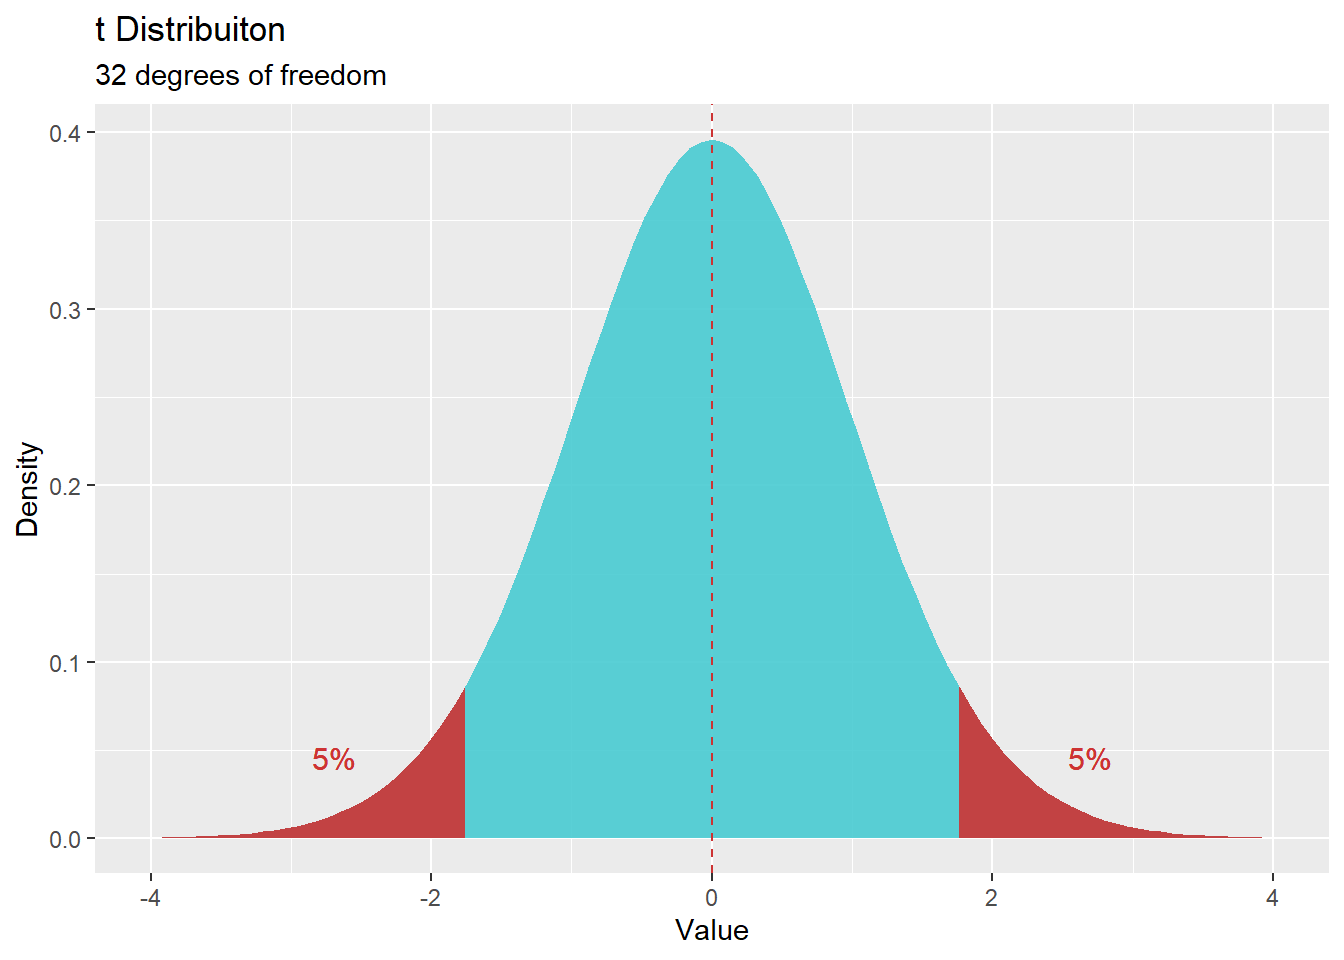
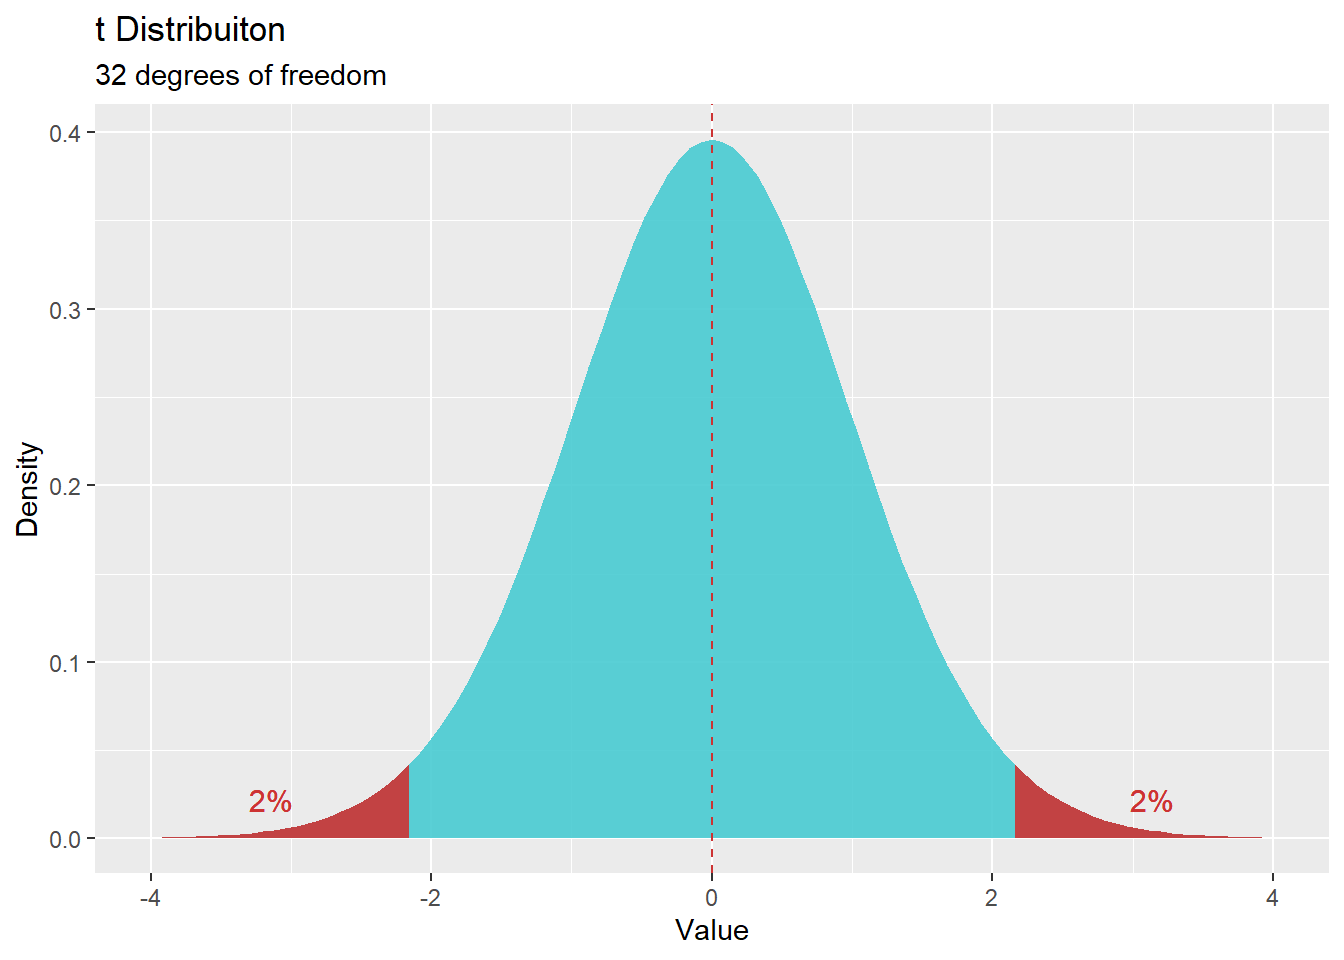
z test and t 3

diff --git a/הסקה-סטטיסטית.html b/הסקה-סטטיסטית.html
@@ -295,18 +295,16 @@ code span.wa { color: #60a0b0; font-weight: bold; font-style: italic; } /* Warni
 <pre><code>qnorm(*confidence level*)</code></pre>
 <p>לדוגמא: עבור השערה חד זנבית ימנית עם <span class="math inline">\(\alpha = 0.05\)</span>
 נרצה לקבל את ציון התקן אשר ההסתברות המצטברת <em>עד אליו</em> היא <span class="math inline">\(0.95\)</span>. <br>
-זהו ציון ה<span class="math inline">\(Z\)</span> הקריטי</p>
-<div class="sourceCode" id="cb172"><pre class="sourceCode r"><code class="sourceCode r"><span id="cb172-1"><a href="הסקה-סטטיסטית.html#cb172-1" aria-hidden="true" tabindex="-1"></a><span class="fu">qnorm</span>(<span class="fl">0.95</span>)</span></code></pre></div>
+זהו ציון ה<span class="math inline">\(Z\)</span> הקריטי.</p>
+<div class="sourceCode" id="cb2"><pre class="sourceCode r"><code class="sourceCode r"><span id="cb2-1"><a href="הסקה-סטטיסטית.html#cb2-1" aria-hidden="true" tabindex="-1"></a><span class="fu">qnorm</span>(<span class="fl">0.95</span>)</span></code></pre></div>
 <pre><code>## [1] 1.644854</code></pre>
-<p><img src="R-Tutorials_files/figure-html/unnamed-chunk-80-1.png" width="672" style="display: block; margin: auto auto auto 0;" /></p>
-<pre><code>## [1] 1.644854</code></pre>
+<p><img src="R-Tutorials_files/figure-html/unnamed-chunk-2-1.png" width="672" style="display: block; margin: auto auto auto 0;" /></p>
 <p>עבור מבחן דו זנבי ואותה רמת ביטחון - ערכים קיצוניים ייתכנו משני הצדדים (<span class="math inline">\(0.025\)</span> מכל צד)
 ולכן ציון ה<span class="math inline">\(Z\)</span>
 הקריטי יחושב עבור הסתברות מצטברת של <span class="math inline">\(0.975\)</span>.</p>
-<div class="sourceCode" id="cb175"><pre class="sourceCode r"><code class="sourceCode r"><span id="cb175-1"><a href="הסקה-סטטיסטית.html#cb175-1" aria-hidden="true" tabindex="-1"></a><span class="fu">qnorm</span>(<span class="fl">0.975</span>)</span></code></pre></div>
+<div class="sourceCode" id="cb4"><pre class="sourceCode r"><code class="sourceCode r"><span id="cb4-1"><a href="הסקה-סטטיסטית.html#cb4-1" aria-hidden="true" tabindex="-1"></a><span class="fu">qnorm</span>(<span class="fl">0.975</span>)</span></code></pre></div>
 <pre><code>## [1] 1.959964</code></pre>
-<p><img src="R-Tutorials_files/figure-html/unnamed-chunk-82-1.png" width="672" style="display: block; margin: auto auto auto 0;" /></p>
-<pre><code>## [1] 1.959964</code></pre>
+<p><img src="R-Tutorials_files/figure-html/unnamed-chunk-4-1.png" width="672" style="display: block; margin: auto auto auto 0;" /></p>
 <h3>
 חישוב <span class="math inline">\(t\)</span> קריטי
 </h3>
@@ -317,17 +315,19 @@ code span.wa { color: #60a0b0; font-weight: bold; font-style: italic; } /* Warni
 בניסוח פרקטי: דרגות החופש שוות למספר הנבדקים פחות מספר הפרמטרים עליהם מבוסס חישוב הסטטיסטי.</p>
 <pre><code>qt(*confidence level*, *degrees of freedom*)</code></pre>
 <p>לדוגמא:
-עבור השערה חד זנבית ימנית עם <span class="math inline">\(\alpha = 0.1\)</span>
-ו- <span class="math inline">\(df = 32\)</span></p>
-<div class="sourceCode" id="cb179"><pre class="sourceCode r"><code class="sourceCode r"><span id="cb179-1"><a href="הסקה-סטטיסטית.html#cb179-1" aria-hidden="true" tabindex="-1"></a><span class="fu">qt</span>(<span class="fl">0.9</span>, <span class="dv">32</span>)</span></code></pre></div>
-<pre><code>## [1] 1.308573</code></pre>
-<p><img src="R-Tutorials_files/figure-html/unnamed-chunk-84-1.png" width="672" style="display: block; margin: auto auto auto 0;" /></p>
+עבור השערה חד זנבית שמאלית עם <span class="math inline">\(\alpha = 0.04\)</span>
+ו- <span class="math inline">\(df = 32\)</span>
+נרצה לקבל את ציון התקן אשר ההסתברות המצטברת <em>עד אליו</em> היא <span class="math inline">\(0.04\)</span>. <br>
+זהו ציון ה<span class="math inline">\(t\)</span> הקריטי.</p>
+<div class="sourceCode" id="cb7"><pre class="sourceCode r"><code class="sourceCode r"><span id="cb7-1"><a href="הסקה-סטטיסטית.html#cb7-1" aria-hidden="true" tabindex="-1"></a><span class="fu">qt</span>(<span class="fl">0.04</span>, <span class="dv">32</span>)</span></code></pre></div>
+<pre><code>## [1] -1.808089</code></pre>
+<p><img src="R-Tutorials_files/figure-html/unnamed-chunk-6-1.png" width="672" style="display: block; margin: auto auto auto 0;" /></p>
 <p>עבור מבחן דו זנבי, באותה רמת ביטחון
-- ערכים קיצוניים ייתכנו משני הצדדים (<span class="math inline">\(0.05\)</span> מכל צד) ולכן ציון ה<span class="math inline">\(t\)</span>
-הקריטי יחושב עבור הסתברות מצטברת של <span class="math inline">\(0.95\)</span>.</p>
-<div class="sourceCode" id="cb181"><pre class="sourceCode r"><code class="sourceCode r"><span id="cb181-1"><a href="הסקה-סטטיסטית.html#cb181-1" aria-hidden="true" tabindex="-1"></a><span class="fu">qt</span>(<span class="fl">0.95</span>, <span class="dv">32</span>)</span></code></pre></div>
-<pre><code>## [1] 1.693889</code></pre>
-<img src="R-Tutorials_files/figure-html/unnamed-chunk-86-1.png" width="672" style="display: block; margin: auto auto auto 0;" />
+- ערכים קיצוניים ייתכנו משני הצדדים (<span class="math inline">\(0.02\)</span> מכל צד) ולכן ציון ה<span class="math inline">\(t\)</span>
+הקריטי יחושב עבור הסתברות מצטברת של <span class="math inline">\(0.98\)</span>.</p>
+<div class="sourceCode" id="cb9"><pre class="sourceCode r"><code class="sourceCode r"><span id="cb9-1"><a href="הסקה-סטטיסטית.html#cb9-1" aria-hidden="true" tabindex="-1"></a><span class="fu">qt</span>(<span class="fl">0.98</span>, <span class="dv">32</span>)</span></code></pre></div>
+<pre><code>## [1] 2.140904</code></pre>
+<img src="R-Tutorials_files/figure-html/unnamed-chunk-8-1.png" width="672" style="display: block; margin: auto auto auto 0;" />
 <hr>
 </div>
 <div id="מבחן-z-לממוצע-יחיד" class="section level2 hasAnchor" number="10.3">
